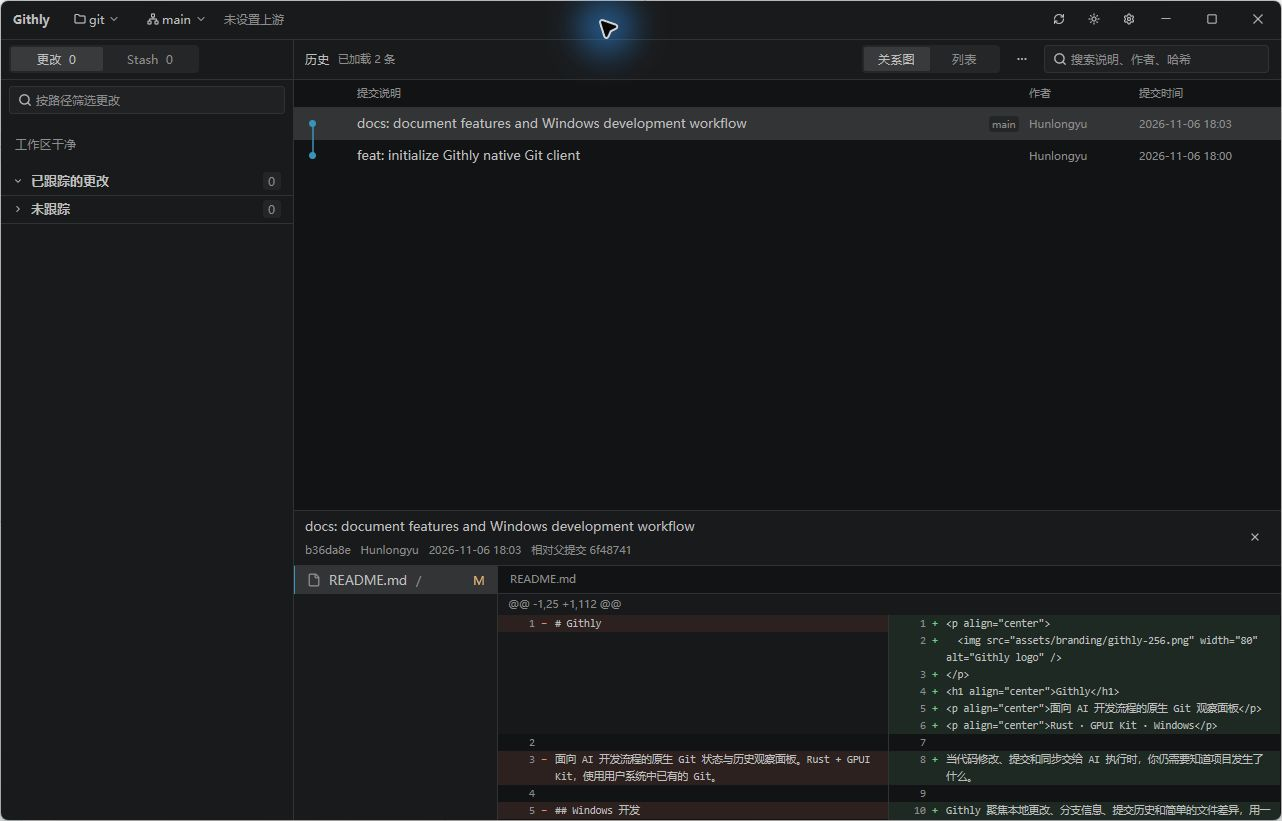
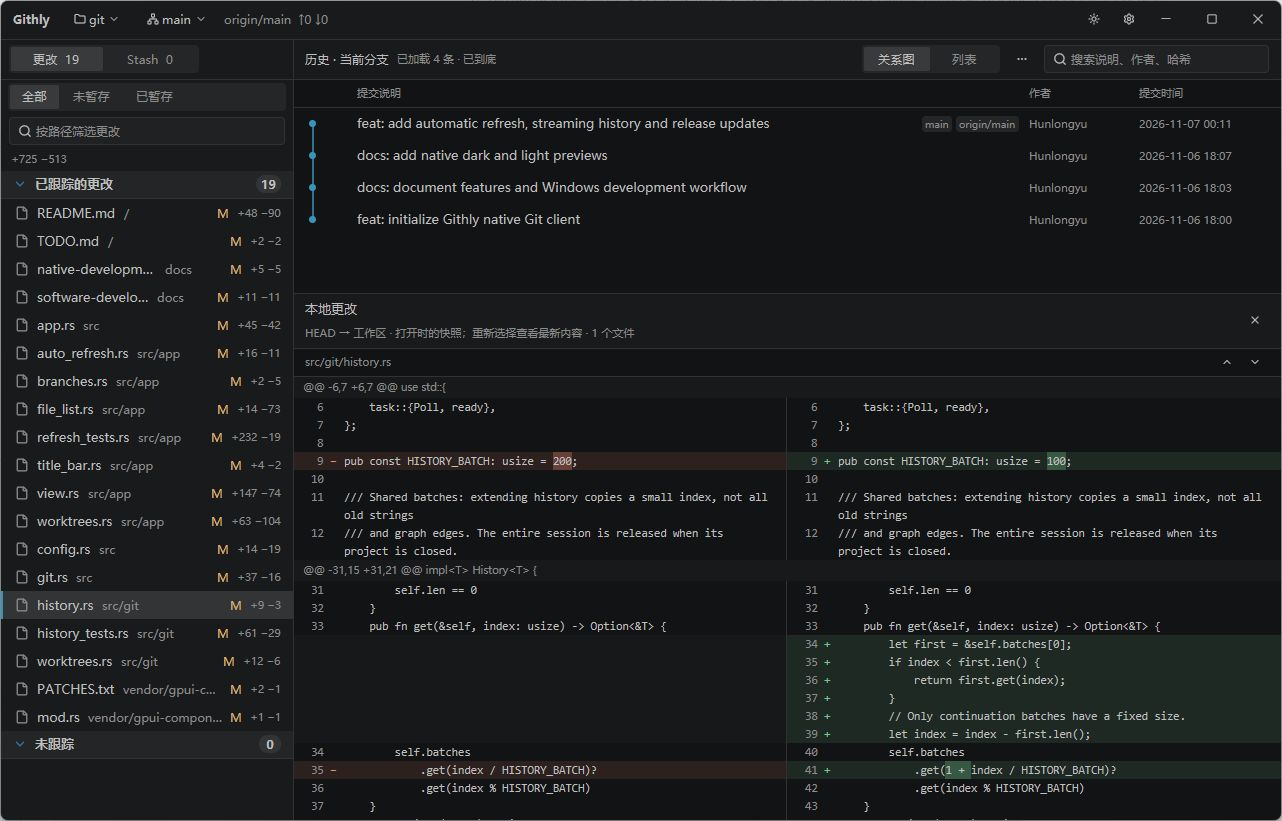
chore(release): 准备 v0.1.0 首个正式版

diff --git a/README.md b/README.md
@@ -1,123 +1,86 @@
 <p align="center">
-  <img src="assets/branding/githly-256.png" width="80" alt="Githly logo" />
+  <img src="assets/branding/githly-256.png" width="80" alt="Githly 图标" />
 </p>
 <h1 align="center">Githly</h1>
-<p align="center">面向 AI 开发流程的原生 Git 观察面板</p>
-<p align="center">Rust · GPUI Kit · Windows</p>
+<p align="center">面向 AI 开发流程的 Windows 原生 Git 观察面板</p>
+<p align="center">
+  <a href="https://github.com/Hunlongyu/githly/releases"><img src="https://img.shields.io/github/downloads/Hunlongyu/githly/total?style=flat-square" alt="GitHub Release 资产累计下载次数" /></a>
+</p>
 
-当代码修改、提交和同步交给 AI 执行时，你仍需要知道项目发生了什么。
+当 AI 或其他工具在后台修改代码、创建提交时，Githly 会自动刷新本地仓库状态。你可以在同一窗口看到哪些文件变了、工作区和暂存区各改了什么，也可以沿分支图找到一次提交，查看它的文件差异。
 
-Githly 聚焦本地更改、分支信息、提交历史和简单的文件差异，用一个紧凑的桌面面板跟踪项目状态。
+## 下载与运行
 
-> 当前为早期开发版本，优先支持 Windows x64。已接入低频自动刷新、历史滚动续载和软件更新客户端；真实发布升级验收仍待完成。
+需要 **Windows 10 或 11（x64）** 和系统 Git。若 Githly 未找到 Git，可在设置中指定已有的 `git.exe`。
 
-## 预览
+从正式发布页选择 Windows x64 安装包或便携 ZIP。每个版本都附有更新说明和 `SHA256SUMS.txt`，可用来核对下载文件。[下载最新正式版](https://github.com/Hunlongyu/githly/releases/latest)
 
-以下为原生客户端查看 Githly 自身仓库的实际截图。
-
-**深色主题**
-
-![Githly 深色主题：项目历史与双栏 Diff](docs/screenshots/native-dark.png)
-
-**浅色主题**
-
-![Githly 浅色主题：项目历史与双栏 Diff](docs/screenshots/native-light.png)
-
-## 已实现
-
-| 功能 | 说明 |
+| 使用方式 | 如何启动 |
 | --- | --- |
-| 本地项目 | 选择或拖入已有仓库、最近项目、恢复上次项目、已有 Worktree 浏览 |
-| 更改 | 全部 / 未暂存 / 已暂存范围，路径筛选、双重状态及异步增删统计 |
-| 分支 | 浏览本地 / 远程 / 全部分支历史，独立入口切换干净工作区的已有本地分支 |
-| 上游状态 | 显示本地记录的领先 / 落后提交数，不自动访问远程 |
-| 历史 | 首次读取 200 条，接近底部自动续载；关系图 / 列表切换，搜索已加载记录 |
-| 自动刷新 | 前台约 15 秒、后台约 60 秒核对本地状态，保留当前阅读快照 |
-| 文本 Diff | 默认打开首个文件，双栏换行、增删标色、上一处 / 下一处变化、完整提交说明 |
-| 图片 Diff | 修改前后预览，支持 PNG、JPEG、GIF、WebP、BMP、ICO、TIFF、SVG |
-| Stash | 固定对象的文件清单与 Diff，包含保存的未跟踪文件 |
-| 桌面交互 | 深浅主题、轻微动效、独立设置、面板尺寸持久化、常用快捷键 |
-| 大列表 | 更改、分支、历史与 Diff 文件列表使用虚拟渲染 |
-| 软件更新 | 每天 / 每三天 / 每周或手动检查，限流时回退到配置的 Release 镜像，下载校验后启动安装向导 |
+| 安装版 | 运行文件名以 `-windows-x64-setup.exe` 结尾的安装包，跟随向导为当前用户安装，之后从开始菜单打开 Githly。 |
+| 便携版 | 解压文件名以 `-windows-x64.zip` 结尾的便携包，直接运行其中的 `Githly.exe`。 |
 
-GIF / WebP 预览首帧。文本 Diff 保持简单的差异标色，不加载完整语言语法库；关闭详情释放文件数据和图片资源。
+如需试用开发版，可登录 GitHub，在成功构建的 **Artifacts** 区域下载 `windows-x64`。开发构建保留 14 天。[Windows 构建列表](https://github.com/Hunlongyu/githly/actions/workflows/windows.yml)
 
-Githly 调用系统已安装的 Git。缺少 Git 时提供提示、重新检测和手动选择 `git.exe`，不会自行下载或安装 Git。
+## 第一次使用
 
-## 功能边界
+同一 Windows 登录会话只运行一个 Githly 窗口。再次启动会唤回已有窗口，已最小化时会恢复。启动时传入仓库目录，会在该窗口打开对应项目。
 
-应用内不提供 Commit、暂存、丢弃更改、Pull、Push、Fetch、Merge、Rebase 或冲突解决操作，也不建立逐行审阅、批注和已读进度流程。
+1. 把已有的本地仓库目录拖进窗口，或按 `Ctrl+O` 选取目录。用过的仓库可以从「最近打开」中直接进入。
+2. 在左侧「更改」面板切换「全部」「未暂存」「已暂存」，点击文件查看差异。同一文件既有已暂存又有未暂存修改时，可分别查看两部分。
+3. 在右侧点击一次提交，下方会打开它的第一个变更文件。点击其他文件可切换差异，用「上一处变化」「下一处变化」在修改位置之间跳转。
+4. 点击顶部分支名可浏览其他分支的历史。要改变工作目录的检出分支，请使用已有本地分支旁的「切换」按钮。切换要求工作区干净且没有冲突或进行中的合并、变基。
 
-分支名称用于浏览历史，独立“切换”按钮会改变工作目录。工作区有更改、存在冲突或正在合并 / 变基时拒绝切换，不自动 stash 或强制覆盖。远程跟踪分支和领先 / 落后数量来自本地引用，不代表远程服务器的实时状态。
+## 界面预览
 
-## 构建与运行
+![Githly 深色主题，左侧为文件更改，右侧为提交历史和双栏差异](docs/screenshots/native-dark.png)
 
-Windows 开发环境需要：
+<details>
+<summary>查看浅色主题</summary>
 
-- Rust MSVC 工具链，项目通过 `rust-toolchain.toml` 固定为 **1.99.1**。
-- Visual Studio C++ Build Tools、Windows SDK 和 CMake。
-- 系统 Git，或在应用设置中指定现有 `git.exe`。
+![Githly 浅色主题，显示同一仓库的历史和双栏差异](docs/screenshots/native-light.png)
+
+</details>
+
+## 查看仓库
+
+| 想了解什么 | 在 Githly 中怎么看 |
+| --- | --- |
+| 改动有多大 | 「更改」按已跟踪和未跟踪文件分组，支持路径筛选，显示文件及合计增删行数。 |
+| 分支如何分叉、合并 | 历史可切换关系图和列表，支持当前分支、指定分支或全部分支。当前源码首批读取约两屏，滚动到距末尾约半屏时再加载最多 100 条。搜索范围是已加载的提交。 |
+| 分支与上游相差多少 | 查看领先、落后提交数。远程跟踪分支及这些计数来自本地引用，外部工具 Fetch 后面板会自动刷新。 |
+| 仓库在阅读期间又有了修改 | 前台约每 15 秒核对本地状态，后台约每 60 秒核对一次。浏览较早历史时会提示有新提交，回到顶部即可更新。已打开的差异保留阅读位置，重新选择文件可查看最新内容。 |
+| 一次提交具体改了什么 | 查看提交正文和逐文件双栏文本差异。常见图片可并排预览修改前后版本，GIF 和 WebP 显示首帧。 |
+| Stash 和其他工作目录里有什么 | 「Stash」可查看保存的文件及差异，包括当时保存的未跟踪文件。顶栏的 worktree 菜单可查看其他工作目录的路径、分支和更改状态，并打开对应目录。 |
+
+提交、暂存、推送、拉取和解决冲突等操作请使用 Git 或已有开发工具。Githly 会在下一次自动刷新时显示结果。
+
+## 软件更新
+
+按 `Ctrl+,` 打开设置，在「软件更新」中可以立即检查，也可选择每天（默认）、每三天、每周或仅手动检查。更新来源是 GitHub 正式 Release。
+
+发现新版后，点击「更新说明」查看变化，或点击「下载更新」。客户端核对安装包大小和 SHA-256 后会显示「安装更新…」，点击后启动 Windows 安装向导。便携版用户若想保留解压运行的方式，可从发布页下载新版 ZIP。设置中也可配置 GitHub 限流时使用的 HTTPS 镜像。[发布与更新说明](docs/releases.md)
+
+## 快捷键与数据位置
+
+| 操作 | 快捷键 |
+| --- | --- |
+| 打开本地仓库 | `Ctrl+O` |
+| 搜索已加载的提交 | `Ctrl+F` |
+| 打开分支菜单 | `Ctrl+B` |
+| 在已聚焦的历史或文件列表中选择 | `↑` / `↓`，`Home` / `End` |
+| 打开设置 / 关闭弹层 | `Ctrl+,` / `Esc` |
+
+最近项目、主题、面板尺寸、Git 路径和更新偏好保存在 `%APPDATA%\githly\config.json`。遇到读取或更新错误时，可在 `%LOCALAPPDATA%\githly\logs` 查看日志。
+
+## 从源码运行
+
+准备 Rust MSVC 工具链、Visual Studio C++ Build Tools、Windows SDK 和 CMake。仓库通过 `rust-toolchain.toml` 固定 Rust 版本。
 
 ```powershell
 git clone https://github.com/Hunlongyu/githly.git
 cd githly
-cargo run
+cargo run --locked
 ```
 
-也可以在启动时打开指定仓库：
-
-```powershell
-cargo run -- E:\path\to\repository
-```
-
-日常默认 Debug。需要优化构建时使用：
-
-```powershell
-cargo build --release
-.\target\release\githly.exe
-```
-
-构建不限制 Cargo 的默认 CPU 并发。应用只需要系统 Git，不需要 Node.js、WebView 或额外的 Git 库。其他操作系统尚未完成运行验证。
-
-## 配置与快捷键
-
-| 内容 | 位置 / 操作 |
-| --- | --- |
-| 配置 | `%APPDATA%\githly\config.json` |
-| 警告与错误日志 | `%LOCALAPPDATA%\githly\logs` |
-| 加载项目 | `Ctrl+O`，或拖入仓库目录 |
-| 刷新本地状态 | 后台自动核对，无刷新按钮和 F5 快捷键 |
-| 打开设置 | `Ctrl+,` |
-| 搜索历史 / 打开分支 | `Ctrl+F` / `Ctrl+B` |
-| 历史及文件列表选择 | 聚焦列表后使用方向键、`Home` / `End` |
-| 关闭菜单 / 设置 | `Esc` |
-
-配置保存最近项目、当前项目、Git 路径、主题、动效、历史显示、面板尺寸和更新设置。主动关闭项目后，下次启动显示加载入口；最近项目记录仍保留，可从项目菜单清除。
-
-## 发布与更新
-
-GitHub Actions 在推送 / PR 时执行检查并生成 Windows 产物，`vX.Y.Z` 标签触发 GitHub Release 发布。安装包、便携 ZIP 和更新清单由同一打包脚本生成。具体步骤、镜像格式和当前限制见 [发布与更新](docs/releases.md)。
-
-## 开发
-
-```powershell
-cargo test --features ui-tests
-cargo clippy --all-targets --features ui-tests -- -D warnings
-cargo fmt --all -- --check
-```
-
-```text
-src/                 原生界面、Git 读取、配置与回归测试
-assets/              透明应用图标与 Windows 资源
-docs/                需求、实现进度与客户端截图
-vendor/gpui-component/  固定版本组件库及本地 UI 补丁
-```
-
-- [软件开发文档](docs/software-development.md)：功能范围与验收目标。
-- [原生开发进度](docs/native-development.md)：当前实现、验证与读取限制。
-- [开发 TODO](TODO.md)：已完成实现、验收结果和本轮暂缓事项。
-- [组件库补丁](vendor/gpui-component/PATCHES.txt)：双栏布局、选择和分段控件修正。第三方源码保留原 [Apache-2.0 许可证](vendor/gpui-component/LICENSE-APACHE)。
-
-历史接近底部时自动加载更早提交，没有页码或翻页按钮。正在浏览旧历史时，外部新增提交会提示有更新，回到顶部后自动核对；已经打开的 Diff 保持阅读快照，重新选择文件可查看最新内容。刷新失败保留原有内容，并放慢重试频率。
-
-仍待完善历史缓存淘汰重载、完整键盘流程、真实仓库长期性能和真实跨版本安装验收。已加载历史随浏览量增长，关闭项目后释放；不将生成历史测试当作 UI 流畅度承诺。完整清单见 [TODO](TODO.md)。
+在已有源码目录中，可用 `cargo run --locked -- "E:\path\to\repository"` 直接打开指定仓库。实现进度、测试与打包步骤见[原生开发进度](docs/native-development.md)、[开发清单](TODO.md)和[发布文档](docs/releases.md)。

diff --git a/TODO.md b/TODO.md
@@ -5,7 +5,7 @@
 ## 发布与自动更新
 
 - [x] **GitHub Actions 构建配置**：Windows x64、固定 Rust 工具链、锁定依赖，执行格式检查、测试、Clippy 和 Release 构建。
-- [x] **GitHub Release 发布配置**：稳定版本标签与 Cargo 版本匹配后，上传 ZIP、Inno Setup 安装包、SHA256SUMS 和 update.json，生成版本说明。尚未推送标签或执行远端发布。
+- [x] **GitHub Release 发布配置**：稳定版本标签与 Cargo 版本匹配后，上传 ZIP、Inno Setup 安装包、SHA256SUMS 和 update.json，生成版本说明。
 - [x] **Windows 安装包脚本**：固定 Inno Setup 6.7.4，实际编译和产物校验通过；按用户安装，不覆盖 AppData 配置，完成后提供启动入口。干净环境安装 / 升级 / 卸载验收见暂缓项。
 - [x] **软件更新客户端**：默认每天自动检查，可选手动 / 每三天 / 每周；展示新版本与说明，后台流式下载、大小与 SHA-256 校验、启动安装向导，完成后由向导启动新版。不在后台静默安装。
 - [x] **GitHub 限流后的镜像回退**：403 / 429 记录服务端冷却时间；可配置 HTTPS Release 镜像前缀，同时覆盖 update.json 与安装包。显示当前来源，已知新版本时拒绝滞后清单；镜像无较新版本不宣称 GitHub 已是最新。空配置改用 GitHub Release 直连，未内置未经验证的公共镜像。
@@ -14,12 +14,12 @@
 
 - [x] **分支历史浏览**：本地 / 远程跟踪分支及全部分支历史，保持实际检出分支不变。
 - [x] **实际切换分支**：已有本地分支的独立切换入口，拒绝未提交更改、冲突及合并 / 变基状态；Git 检查其他 worktree 占用；执行完成后重读。
-- [x] **历史滚动加载**：首次读取 200 条，接近底部自动续载，无页码或翻页按钮；使用固定提交的持续 Git 输出流，跨批次延续关系图。搜索明确限定已加载记录。
+- [x] **历史滚动加载**：首批按历史列表高度读取约两屏，接近底部时每批续载 100 条，无页码或翻页按钮；使用固定提交的持续 Git 输出流，跨批次延续关系图。搜索明确限定已加载记录。
 - [x] **Stash 内容浏览**：文件数量、清单、Diff，含保存的未跟踪文件；详情绑定对象 ID。
 - [x] **暂存区与工作区分别展示**：全部 / 未暂存 / 已暂存视图，明确比较范围，保留双重状态及净变化为零的文件。
 - [x] **增删行数统计**：当前更改异步计算文件及汇总统计，区分待计算、二进制与超限，自动统计间隔至少 60 秒。未扩展为全历史预计算。
 - [x] **自动刷新与阅读位置保留**：移除手动刷新按钮与 F5。采用低频后台轮询，前台约 15 秒、后台或失败后约 60 秒；查询串行，不堆积定时任务，引用不变时复用历史。保留详情快照与滚动锚点，关闭 / 切换项目取消任务并释放数据。
-- [x] **已有 Worktree 浏览**：项目菜单中按需读取路径、分支及状态，支持打开已有工作目录；最多核对 64 个目录的状态。
+- [x] **已有 worktree 浏览**：点击顶栏 worktree 按钮按需读取路径、分支及状态，支持打开已有工作目录；最多核对 64 个目录的状态。
 - [x] **仓库异常状态**：展示冲突、合并 / 变基 / cherry-pick / revert / bisect 中及读取失败。
 
 ## 桌面交互与详情
@@ -41,7 +41,7 @@
 - [ ] **完整缓存预算及淘汰重载**：已加载历史随浏览量增长，关闭项目可回收；尚无历史批次字节预算、磁盘重载和图布局检查点。需要单独设计，避免淘汰破坏返回滚动及合并线关系。
 - [ ] **完整键盘与无障碍流程**：分支 / Stash 全流程导航、可聚焦分隔线及完整焦点恢复仍需补齐；不将常用快捷键视为完整键盘支持。
 - [ ] **真实仓库和长期性能验收**：生成历史压力测试不替代用户真实仓库、Release 构建的输入延迟 / 帧耗时、冷启动及长期内存曲线；目前没有这套基准记录。
-- [ ] **真实发布与升级验收**：需正式版本及干净 Windows 环境，验证安装 / 跨版本升级 / 卸载和真实安装失败回退；本轮不代替用户发布版本。代码签名证书、可信更新清单签名和公共镜像服务选择也暂缓；SHA-256 仅验证文件与清单一致性。
+- [ ] **安装与升级验收**：仍需在干净 Windows 环境验证安装、跨版本升级、卸载和真实安装失败回退。代码签名证书、可信更新清单签名和公共镜像服务选择也暂缓；SHA-256 仅验证文件与清单一致性。
 
 ## 范围说明
 

diff --git a/docs/releases.md b/docs/releases.md
@@ -21,7 +21,7 @@ cargo build --release --locked
 - `update.json`：版本、版本说明地址、安装包地址 / 字节数 / SHA-256。
 - `SHA256SUMS.txt`：以上文件的校验值。
 
-确认版本和产物后，由维护者提交变更并推送对应版本标签。工作流上传附件并生成 Release 说明。本轮仅提供配置与实现，没有代替维护者推送标签或发布版本。
+确认版本和产物后，由维护者提交变更并推送对应版本标签。工作流使用 CHANGELOG.md 中对应版本的条目生成 Release 说明，并附上该标签的安装包和便携包下载入口。
 
 安装包最低 Windows 10，按用户安装到 `%LOCALAPPDATA%/Programs/Githly`，不要求管理员权限。升级关闭占用文件的应用前使用正常安装向导，不强行终止；完成后可启动新版。用户配置保留在 `%APPDATA%/githly`，卸载也不删除配置。便携版的更新按钮同样打开安装向导，不原地静默替换任意目录中的 EXE。
 
@@ -44,8 +44,8 @@ cargo build --release --locked
 
 ## 当前验收边界
 
-本机 Release 构建、Inno Setup 6.7.4 编译、ZIP 打包及清单 / 文件摘要核对已通过，错误标签也会被拒绝。自动化测试覆盖新旧版本判断、限流冷却、镜像切换 / 滞后 / 失败、下载截断 / 中断 / 校验失败及安装程序无法启动。尚无正式版本可做端到端升级验收，干净 Windows 安装 / 跨版本升级 / 卸载及真实安装失败恢复仍列在 TODO。
+本机 Release 构建、Inno Setup 6.7.4 编译、ZIP 打包及清单 / 文件摘要核对已通过，错误标签也会被拒绝。自动化测试覆盖新旧版本判断、限流冷却、镜像切换 / 滞后 / 失败、下载截断 / 中断 / 校验失败及安装程序无法启动。干净 Windows 安装、跨版本升级、卸载及真实安装失败恢复仍待验收。
 
-没有代码签名证书，也没有独立签名的更新清单。SHA-256 只能证明安装包与清单一致，无法抵御清单和安装包同时被替换；应只配置自己信任的镜像。公共镜像服务与清单签名方案留待正式发布前确定。
+没有代码签名证书，也没有独立签名的更新清单。SHA-256 只能证明安装包与清单一致，无法抵御清单和安装包同时被替换；应只配置自己信任的镜像。公共镜像服务与清单签名方案仍待确定。
 
 实现依据：[GitHub 限流规则](https://docs.github.com/en/rest/using-the-rest-api/rate-limits-for-the-rest-api)、[WinHTTP 重定向选项](https://learn.microsoft.com/en-us/windows/win32/winhttp/option-flags)、[Inno Setup 官方下载](https://jrsoftware.org/isdl.php)及[安装命令行参数](https://jrsoftware.org/ishelp/topic_setupcmdline.htm)。

diff --git a/CHANGELOG.md b/CHANGELOG.md
@@ -1,0 +1,11 @@
+# 更新日志
+
+## v0.1.0 · 2026-11-07
+
+Githly 首个正式版面向 Windows 10/11 x64，使用系统中已安装的 Git。
+
+- 在同一窗口查看工作区、暂存区和未跟踪文件，按路径筛选，查看增删行数。仓库变化后自动刷新，保留当前阅读位置。
+- 按分支浏览提交列表或关系图，首批加载约两屏，接近末尾时每次续载最多 100 条。支持查看完整提交说明、双栏文本差异和图片预览。
+- 浏览 Stash 和已有 worktree，也可在工作区干净时切换到已有本地分支。
+- 支持拖入仓库、最近项目、深浅主题和快捷键。重复启动会唤回原窗口，从命令行传入目录可在原窗口打开项目。
+- 提供安装包和便携 ZIP。客户端默认每日检查正式版本，下载后校验安装包大小和 SHA-256，由用户启动安装向导。
